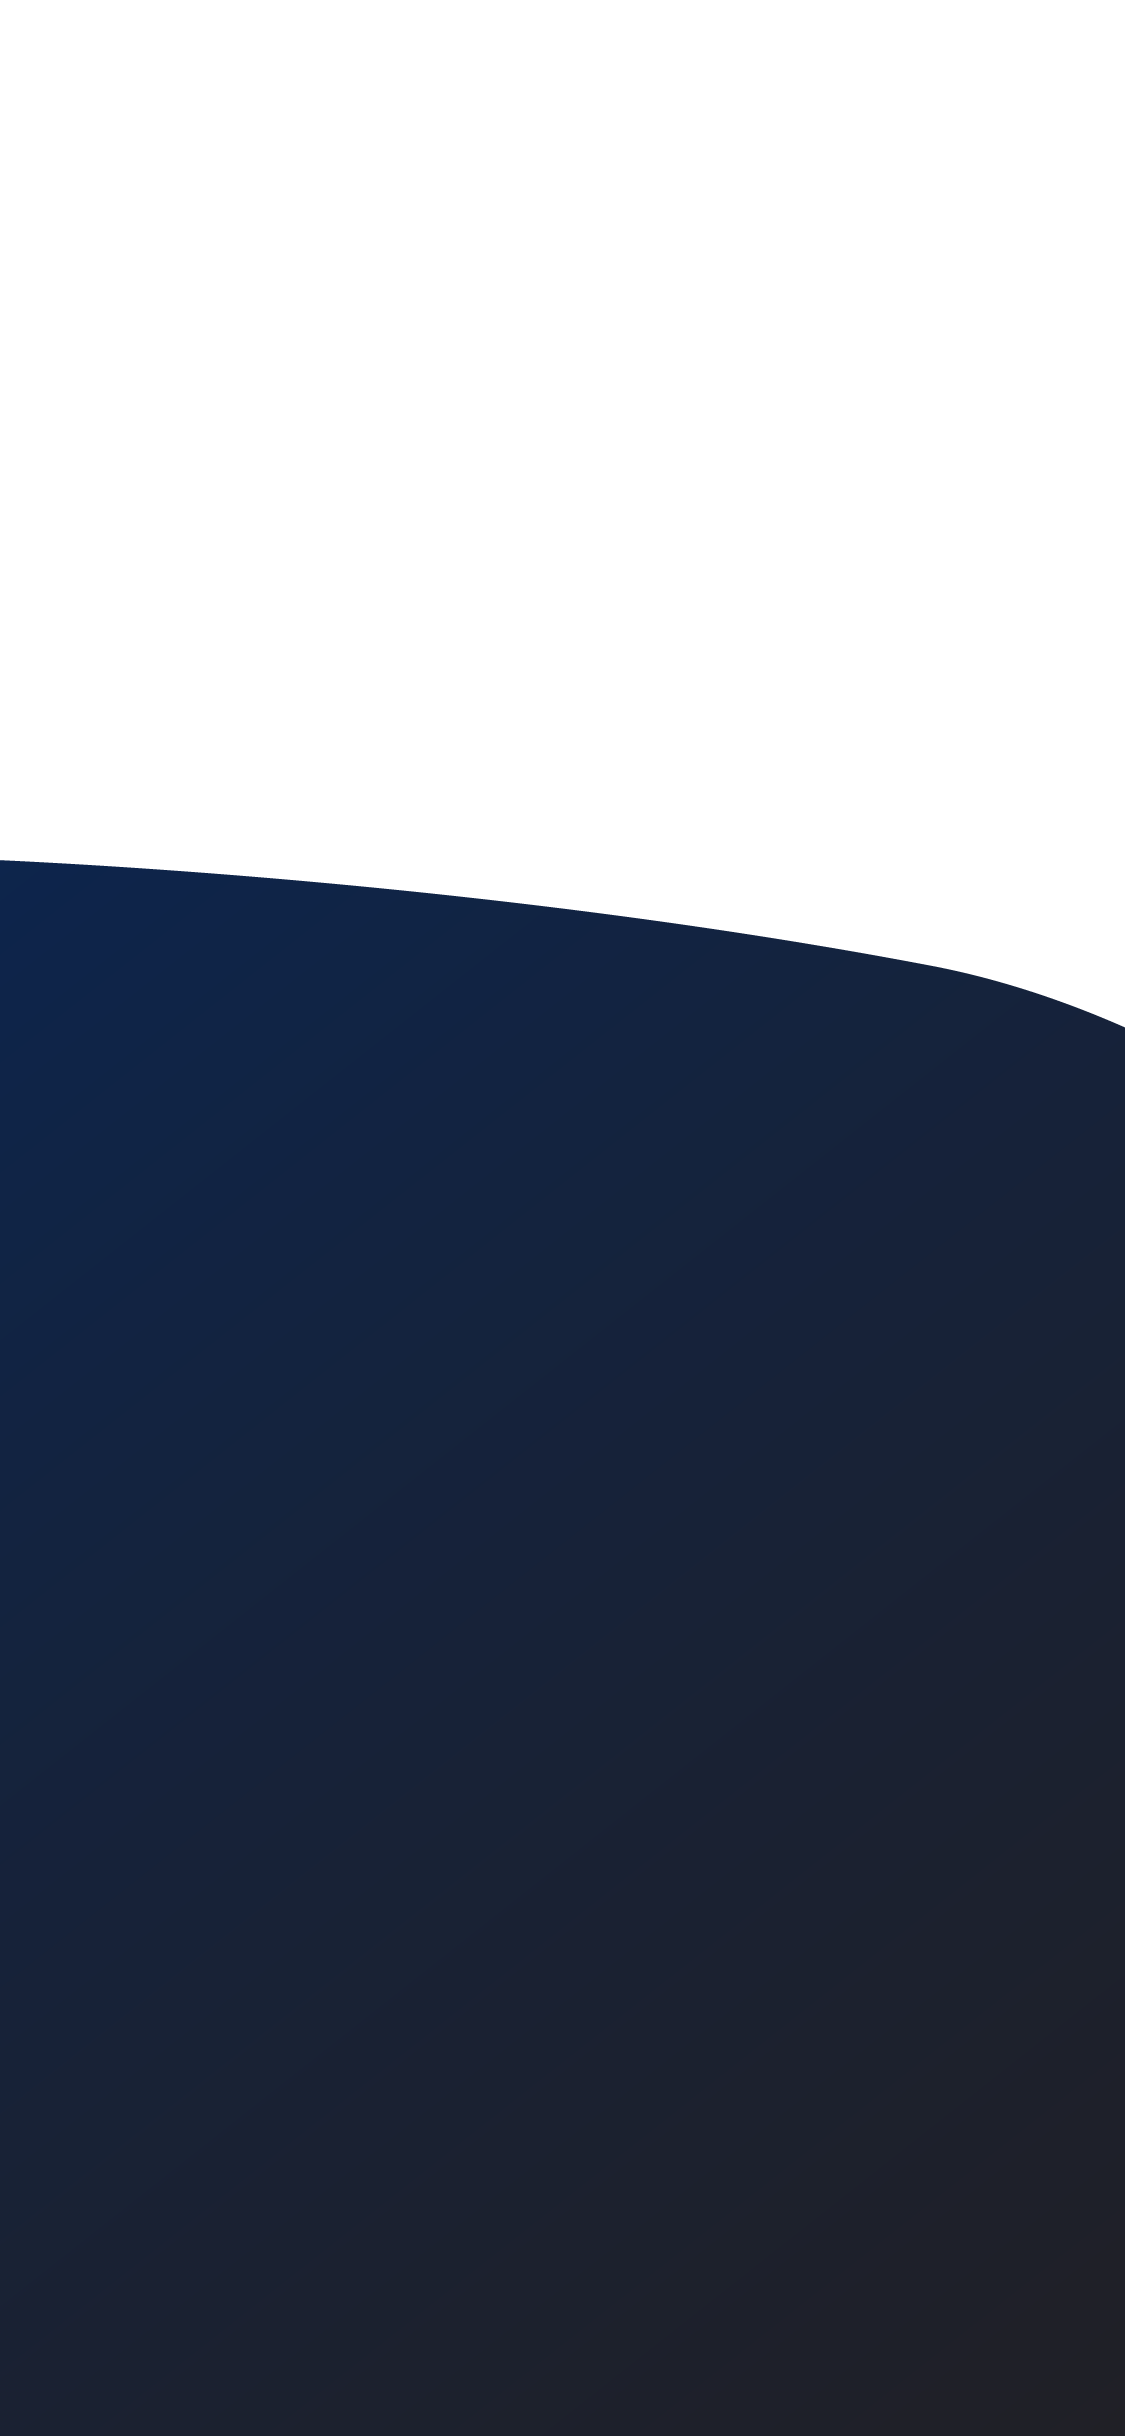
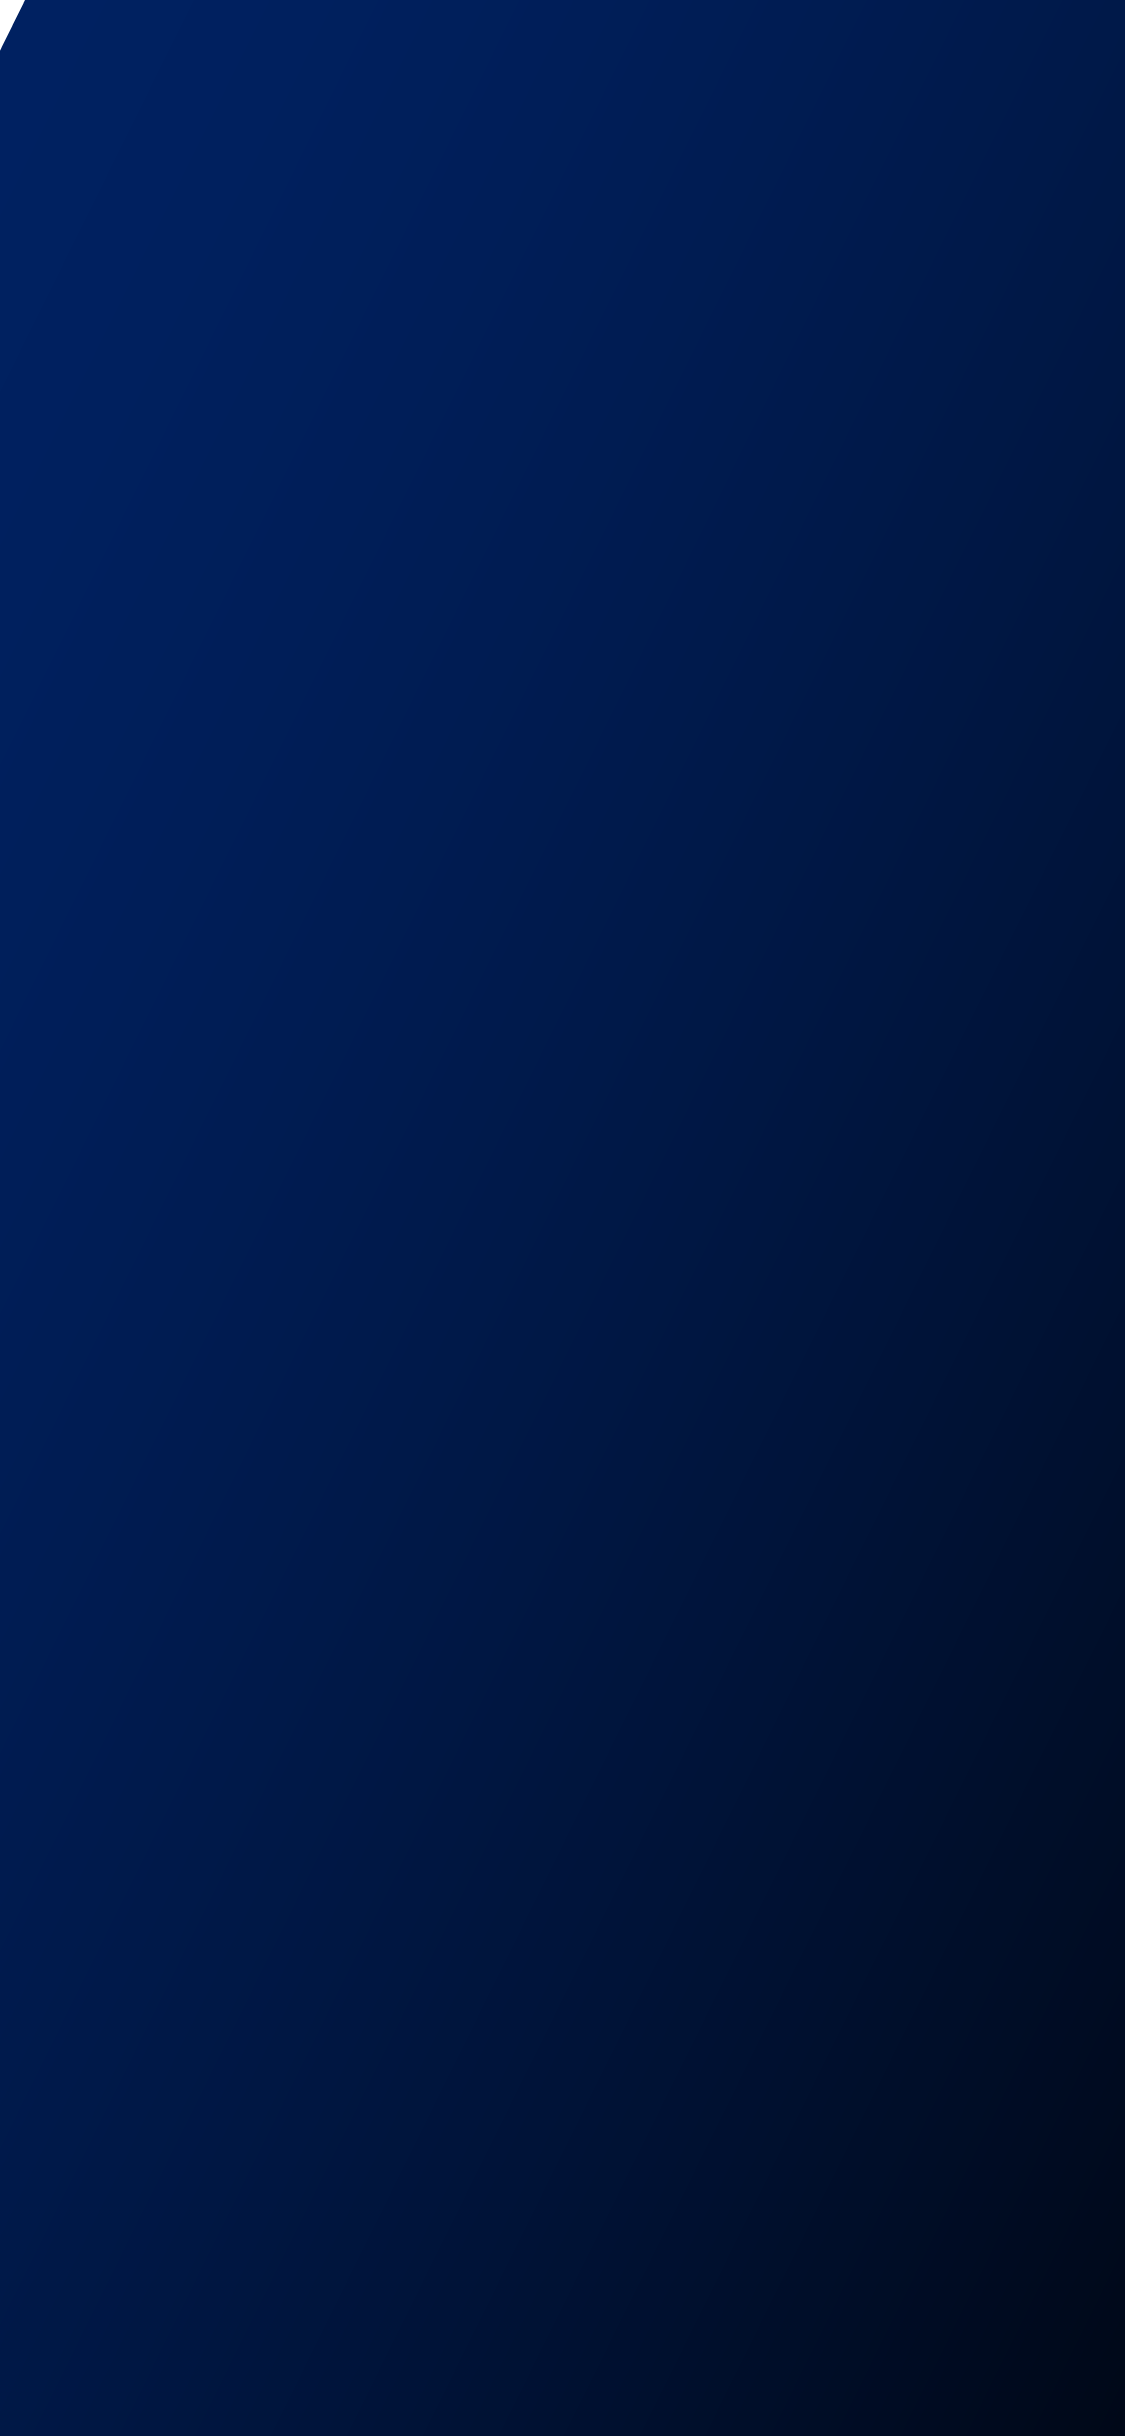
Update login screen

diff --git a/src/screens/Login.tsx b/src/screens/Login.tsx
@@ -8,33 +8,30 @@ import imagePaths from '../constants/imagePaths';
 
 const Login = () => {
   return (
-    <View style={[tw`flex-1`, { backgroundColor: '#fff' }]}>
-      <View style={[tw`pt-5 px-5 flex flex-col`, { zIndex: 2 }]}>
+    <View style={[tw`flex-1`, styles.parentContainer]}>
+      <View style={[tw`flex-4 pt-5 px-5 flex flex-col items-center`]}>
         <View style={tw`mb-10`}>
           <Text style={styles.nameHeading}>FiscalFit</Text>
         </View>
 
         <Image style={[styles.img, tw`mb-12`]} source={imagePaths.imgIntro} />
-
-        <View style={tw`mb-12`}>
-          <Text style={styles.introText}>
-            Simplify your finances and plan for your future.
-          </Text>
-        </View>
-
-        <View>
-          <GoogleSignInComp />
-        </View>
       </View>
-      <Image
-        source={imagePaths.imgIntro2}
-        style={{
-          width: '100%',
-          height: '90%',
-          position: 'absolute',
-          bottom: 0,
-        }}
-      />
+
+      <View style={[tw`flex-5`]}>
+        <View style={tw`px-5 pt-5`}>
+          <View style={tw`mb-12`}>
+            <Text style={styles.introText}>
+              Simplify your finances and plan for your future.
+            </Text>
+          </View>
+
+          <View>
+            <GoogleSignInComp />
+          </View>
+        </View>
+
+        <Image source={imagePaths.imgIntro2} style={styles.bgImageStyle} />
+      </View>
     </View>
   );
 };

diff --git a/src/styles/Login.ts b/src/styles/Login.ts
@@ -1,3 +1,4 @@
+import { introBlue, introTan, whiteColor } from '../constants/colors';
 import { font } from '../constants/fonts';
 import { Dimensions } from 'react-native';
 
@@ -7,6 +8,7 @@ const styles = {
   nameHeading: {
     fontSize: 25,
     fontFamily: font.bold.fontFamily,
+    color: introBlue,
   },
 
   img: {
@@ -18,14 +20,30 @@ const styles = {
   introText: {
     fontSize: 25,
     fontFamily: font.bold.fontFamily,
-    color: '#D2B48C',
+    color: introTan,
   },
 
-  googleBtnContainer: { backgroundColor: '#D2B48C', borderRadius: 10 },
+  googleBtnContainer: { backgroundColor: introTan, borderRadius: 10 },
 
   googleIcon: { width: 20, height: 20 },
 
-  googleBtnText: { fontSize: 16 },
+  googleBtnText: {
+    fontSize: 16,
+    fontFamily: font.medium.fontFamily,
+    color: introBlue,
+  },
+
+  bgImageStyle: {
+    width: '100%',
+    height: '100%',
+    position: 'absolute' as 'absolute',
+    bottom: 0,
+    zIndex: -1,
+    borderTopLeftRadius: 20,
+    borderTopRightRadius: 20,
+  },
+
+  parentContainer: { backgroundColor: whiteColor },
 };
 
 export default styles;

diff --git a/src/constants/colors.ts b/src/constants/colors.ts
@@ -15,3 +15,6 @@ export const darkHeading = '#2C3E50';
 export const progressGradient = ['#380036', '#0CBABA'];
 
 export const progressEmpty = '#EEEEEE';
+
+export const introBlue = '#002161';
+export const introTan = '#D2B48C';
